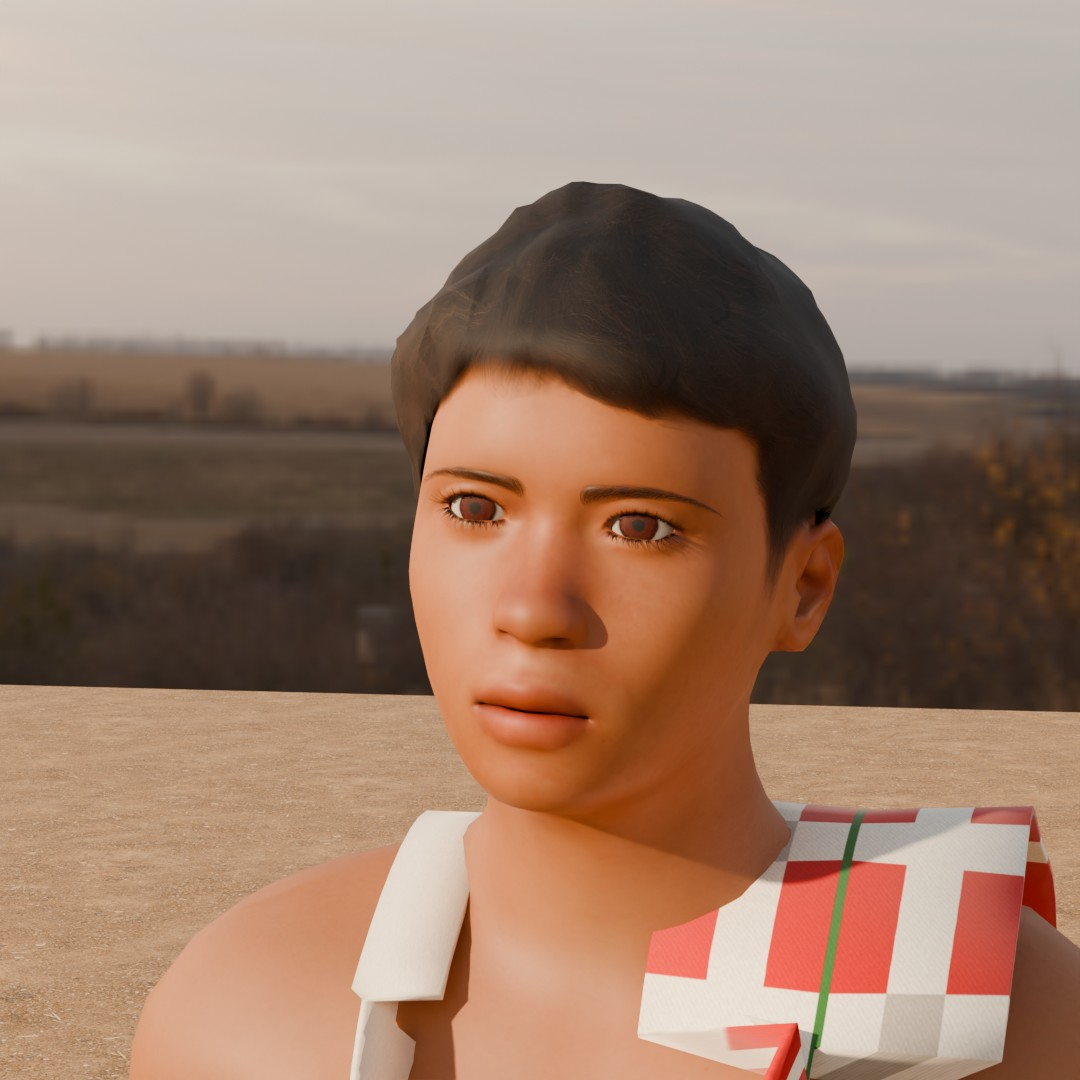
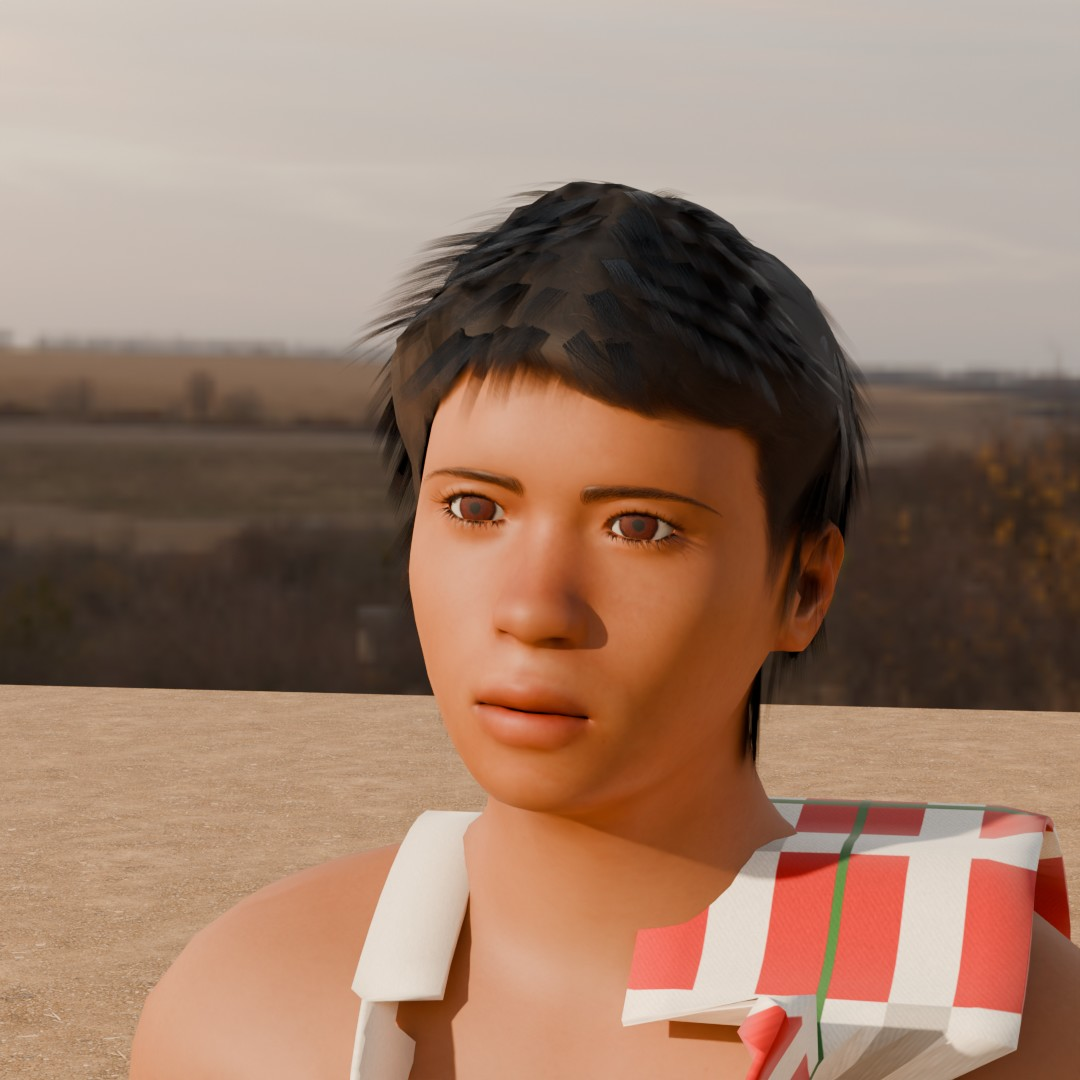
art: Bablu mockup v2 with cloth simulation, hair cards and pore detail
Still free resources only:
- Lungi simulated with Blender's cloth solver on the posed body
  (pinned waist, spare fabric settles into real folds; hem follows the
  settled edge; welded seam with continuous texture).
- 1,600 hair cards grown from the MakeHuman cap with a generated strand
  texture; fringe swept aside above the eyes.
- Tiling skin-pore normal map (exported to the GLB) and stronger
  subsurface in renders.
- Gamcha wider and more detailed, kept shaped (simulation crumpled it).
- v1 renders kept in docs/mockups/v1 for comparison; README updated
  with the assessment against Real Cricket 24.

diff --git a/art-source/create_mockup_bablu.py b/art-source/create_mockup_bablu.py
@@ -80,6 +80,7 @@ def tail_w(b): return rig.matrix_world @ b.tail_local
 dg = bpy.context.evaluated_depsgraph_get()
 body_eval = body.evaluated_get(dg); me_eval = body_eval.to_mesh()
 V = np.array([body_eval.matrix_world @ v.co for v in me_eval.vertices])
+Nrm = np.array([(body_eval.matrix_world.to_3x3() @ v.normal).normalized() for v in me_eval.vertices])
 body_eval.to_mesh_clear()
 gidx = {g.name.lower(): g.index for g in body.vertex_groups}
 # MakeHuman keeps hidden helper geometry (skirt/tights cages, hair helper, joint cubes) in the
@@ -203,9 +204,12 @@ def mesh_object(name, verts, faces, uvs=None, mat=None):
     return ob
 
 # ---------- lungi: a tube that wraps both legs (support function of the body section) ----------
-NA, NR = 72, 30
+# Built for cloth simulation (run after posing): the top rows are pinned tight at the waist, the rest
+# starts wider than the legs so gravity and body collision form real folds. The seam is welded.
+NA, NR = 96, 34
 z_top, z_bot = z_navel - .05, z_knee + .035
 legs = (w_arm < .05)
+rng_l = np.random.default_rng(7)
 rings, uvs = [], []
 prev = None
 for j in range(NR + 1):
@@ -216,17 +220,21 @@ for j in range(NR + 1):
     ring = (np.roll(ring, 1) + 2 * ring + np.roll(ring, -1)) / 4            # smooth around
     if prev is not None: ring = np.maximum(ring, prev * .97)               # no pinching between the legs
     prev = ring
-    for i in range(NA + 1):                                                # last column repeats the first: clean UV seam
+    for i in range(NA):
         a = 2 * math.pi * i / NA
-        folds = (.003 + .007 * t) * math.sin(a * 7 + 1.7 * math.sin(a * 3)) + .0015 * math.sin(a * 17)
-        r = ring[i % NA] + .032 + .012 * t * t + folds
+        slack = .009 if j <= 1 else .02 + .045 * t ** .7 + rng_l.normal(0, .002)   # spare fabric lower down
+        r = ring[i] + slack
         rings.append((cx + r * math.cos(a), cy + r * math.sin(a), z))
         uvs.append((i / NA * 3, (z_top - z) * 3))
-C = NA + 1
-faces = [(j * C + i, j * C + i + 1, (j + 1) * C + i + 1, (j + 1) * C + i) for j in range(NR) for i in range(NA)]
+faces = [(j * NA + i, j * NA + (i + 1) % NA, (j + 1) * NA + (i + 1) % NA, (j + 1) * NA + i) for j in range(NR) for i in range(NA)]
 lungi = mesh_object('Lungi', rings, faces, uvs, cloth_material('Lungi', lungi_img))
-sol = lungi.modifiers.new('thick', 'SOLIDIFY'); sol.thickness = .004
-bpy.context.view_layer.objects.active = lungi; bpy.ops.object.modifier_apply(modifier='thick')
+uvl = lungi.data.uv_layers.active                                         # wrap faces: continue the texture past u=3
+for poly in lungi.data.polygons:
+    ids = [vi % NA for vi in poly.vertices]
+    if 0 in ids and NA - 1 in ids:
+        for li, vi in zip(poly.loop_indices, poly.vertices):
+            if vi % NA == 0: uvl.data[li].uv = (3.0, uvl.data[li].uv[1])
+pin = lungi.vertex_groups.new(name='pin'); pin.add(list(range(2 * NA)), 1.0, 'REPLACE')
 
 def roll(name, ring_pts, radius, mat, uv_scale=6):
     """A rolled fabric tube following a closed ring of points (waist knot roll, folded hem)."""
@@ -243,15 +251,16 @@ def roll(name, ring_pts, radius, mat, uv_scale=6):
     return mesh_object(name, verts, f, uv, mat)
 
 top_ring = [rings[i] for i in range(NA)]
-bottom_ring = [rings[NR * C + i] for i in range(NA)]
 waist = roll('Lungi_waist', top_ring, .011, lungi.data.materials[0])
-hem = roll('Lungi_hem', bottom_ring, .009, lungi.data.materials[0])
 # the tuck knot at the front of the waist
 knot_c = Vector(top_ring[NA * 3 // 4]) + Vector((0, -.012, -.01))
 bpy.ops.mesh.primitive_uv_sphere_add(segments=16, ring_count=10, radius=.02, location=knot_c)
 knot = bpy.context.active_object; knot.name = 'Lungi_knot'; knot.scale = (1.6, .5, .7)
 knot.data.materials.append(lungi.data.materials[0])
-for o in (lungi, waist, hem, knot): skin_to_body(o)
+for o in (lungi, waist, knot): skin_to_body(o)
+lungi.vertex_groups.remove(lungi.vertex_groups['pin'])                  # weight normalising touched it; re-add
+lungi.vertex_groups.new(name='pin').add(list(range(2 * NA)), 1.0, 'REPLACE')
+# the folded hem is added after the simulation, along the settled bottom edge
 
 # ---------- vest: offset copy of the torso surface, scooped neck and arm holes ----------
 bpy.ops.object.select_all(action='DESELECT')
@@ -308,31 +317,36 @@ def catmull(pts, n):
             t = k / n; p0, p1, p2, p3 = P[i - 1], P[i], P[i + 1], P[i + 2]
             out.append(.5 * ((2 * p1) + (-p0 + p2) * t + (2 * p0 - 5 * p1 + 4 * p2 - p3) * t * t + (-p0 + 3 * p1 - 3 * p2 + p3) * t ** 3))
     out.append(pts[-1]); return out
-def strip(name, path, width, top_z, mat, ripple=.004, uv_len=5):
-    """A cloth strip of the given width following a path over the shoulder."""
-    spine = catmull(path, 10); verts, uv = [], []
+def strip(name, path, width, top_z, mat, ripple=.004, uv_len=5, across=3, steps=10, solid=True):
+    """A cloth strip of the given width following a path over the shoulder.
+    solid=False leaves a single layer for cloth simulation (thickness is added afterwards)."""
+    spine = catmull(path, steps); verts, uv = [], []
     for i, p in enumerate(spine):
         tng = (spine[min(i + 1, len(spine) - 1)] - spine[max(i - 1, 0)]).normalized()
         outward = Vector((p.x - cx, p.y - cy, 0)); outward = outward.normalized() if outward.length > 1e-4 else Vector((0, 0, 1))
         if abs(p.z - top_z) < .05: outward = Vector((0, 0, 1))
         wdir = tng.cross(outward).normalized()
-        for s in (-1, 0, 1):
-            verts.append(p + wdir * (width / 2) * s + outward * ripple * math.sin(i * .9) * (s != 0))
-            uv.append((i / len(spine) * uv_len, (s + 1) / 2))
-    f = [(i * 3 + k, i * 3 + k + 1, (i + 1) * 3 + k + 1, (i + 1) * 3 + k) for i in range(len(spine) - 1) for k in range(2)]
+        for k in range(across):
+            s = 2 * k / (across - 1) - 1
+            verts.append(p + wdir * (width / 2) * s + outward * ripple * math.sin(i * .9) * (k not in (0, across - 1)))
+            uv.append((i / len(spine) * uv_len, k / (across - 1)))
+    f = [(i * across + k, i * across + k + 1, (i + 1) * across + k + 1, (i + 1) * across + k)
+         for i in range(len(spine) - 1) for k in range(across - 1)]
     ob = mesh_object(name, verts, f, uv, mat)
-    sol = ob.modifiers.new('thick', 'SOLIDIFY'); sol.thickness = .003
-    bpy.context.view_layer.objects.active = ob; bpy.ops.object.modifier_apply(modifier='thick')
+    if solid:
+        sol = ob.modifiers.new('thick', 'SOLIDIFY'); sol.thickness = .003
+        bpy.context.view_layer.objects.active = ob; bpy.ops.object.modifier_apply(modifier='thick')
     skin_to_body(ob)
     return ob
 
 # gamcha over the left shoulder, hanging to the waist in front and behind
 top = shoulder_top(.62); xs = top[0]
 print('GAMCHA_TOP', top, flush=True)
-gamcha = strip('Gamcha', [surface(xs - side * .05, top[2] - .42, True), surface(xs - side * .02, top[2] - .22, True),
-                          surface(xs, top[2] - .06, True), Vector((xs, top[1], top[2] + .022)),
-                          surface(xs, top[2] - .06, False), surface(xs - side * .03, top[2] - .25, False),
-                          surface(xs - side * .06, top[2] - .45, False)], .13, top[2], cloth_material('Gamcha', gamcha_img, .9, .5))
+gamcha = strip('Gamcha', [surface(xs - side * .05, top[2] - .42, True, .032), surface(xs - side * .02, top[2] - .22, True, .03),
+                          surface(xs, top[2] - .06, True, .024), Vector((xs, top[1], top[2] + .022)),
+                          surface(xs, top[2] - .06, False, .024), surface(xs - side * .03, top[2] - .25, False, .03),
+                          surface(xs - side * .06, top[2] - .45, False, .032)], .14, top[2], cloth_material('Gamcha', gamcha_img, .9, .5),
+                ripple=.004, across=9, steps=14, solid=True)    # shaped, not simulated: a thick towel keeps its drape
 
 # vest straps on both shoulders, from the front of the vest to the back
 for s_name, frac in (('Vest_strap_l', .5), ('Vest_strap_r', -.5)):
@@ -391,6 +405,122 @@ try:
     pb = rig.pose.bones[bone('head').name]; pb.rotation_mode = 'XYZ'; pb.rotation_euler.rotate_axis('Z', math.radians(-6))
 except KeyError: pass
 bpy.ops.object.mode_set(mode='OBJECT')
+
+# ---------- cloth simulation: lungi and gamcha settle on the posed body (Blender's built-in solver) ----------
+scene = bpy.context.scene
+for o, th in ((body, .006), (vest, .003)):
+    col = o.modifiers.new('collision', 'COLLISION')
+    o.collision.thickness_outer = th; o.collision.cloth_friction = 8
+def simulate(obj, frames, mass, bend, shrink=0.):
+    mod = obj.modifiers.new('cloth', 'CLOTH'); s = mod.settings
+    s.quality = 8; s.mass = mass; s.air_damping = 2
+    s.tension_stiffness = s.compression_stiffness = 18; s.shear_stiffness = 6; s.bending_stiffness = bend
+    s.vertex_group_mass = 'pin'; s.pin_stiffness = 1; s.shrink_min = shrink
+    cs = mod.collision_settings; cs.distance_min = .004; cs.collision_quality = 4; cs.use_self_collision = False
+    mod.point_cache.frame_start = 1; mod.point_cache.frame_end = frames
+    scene.frame_start, scene.frame_end = 1, frames
+    for f in range(1, frames + 1): scene.frame_set(f)
+    bpy.context.view_layer.objects.active = obj
+    bpy.ops.object.modifier_apply(modifier='cloth')
+    scene.frame_set(1)
+    print('SIMULATED', obj.name, frames, 'frames', flush=True)
+simulate(lungi, 50, .25, .6)
+for o in (body, vest): o.modifiers.remove(o.modifiers['collision'])
+
+# folded hem along the settled bottom edge, then cloth thickness
+lw = lungi.matrix_world
+hem_ring = [lw @ lungi.data.vertices[NR * NA + i].co for i in range(NA)]
+hem = roll('Lungi_hem', hem_ring, .008, lungi.data.materials[0]); skin_to_body(hem)
+for o, th in ((lungi, .003),):
+    sol = o.modifiers.new('thick', 'SOLIDIFY'); sol.thickness = th; sol.offset = 1
+    sub = o.modifiers.new('smooth', 'SUBSURF'); sub.levels = 0; sub.render_levels = 1
+
+# ---------- hair cards: short strands grown from the scalp, combed forward and down ----------
+rng_h = np.random.default_rng(11)
+def strand_texture(n=512, count=260):
+    img = np.zeros((n, n, 4))
+    for _ in range(count):
+        x = rng_h.uniform(0, n); w = rng_h.uniform(.6, 1.8); a = rng_h.uniform(.55, 1)
+        tone = np.array([.045, .035, .03]) * rng_h.uniform(.7, 1.5) + rng_h.uniform(0, .02)
+        xs_ = np.arange(n)
+        prof = np.clip(1 - np.abs(xs_ - x) / w, 0, 1) * a
+        v_ = np.linspace(0, 1, n)
+        taper = np.clip(1 - v_ ** 3 * rng_h.uniform(.8, 1.2), 0, 1) * np.clip(v_ / .12, 0, 1)   # soft root, thin tips
+        alpha = taper[:, None] * prof[None, :]
+        img[..., :3] = img[..., :3] * (1 - alpha[..., None]) + tone * alpha[..., None]
+        img[..., 3] = np.maximum(img[..., 3], alpha)
+    im = bpy.data.images.new('hair_strands', n, n, alpha=True)
+    im.pixels.foreach_set(img.astype(np.float32).ravel()); im.pack()
+    return im
+hair_img = strand_texture()
+hm = bpy.data.materials.new('HairCards'); hm.use_nodes = True
+nt = hm.node_tree; hb = nt.nodes['Principled BSDF']
+ht = nt.nodes.new('ShaderNodeTexImage'); ht.image = hair_img
+nt.links.new(ht.outputs['Color'], hb.inputs['Base Color']); nt.links.new(ht.outputs['Alpha'], hb.inputs['Alpha'])
+hb.inputs['Roughness'].default_value = .45
+if 'Coat Weight' in hb.inputs: hb.inputs['Coat Weight'].default_value = .2
+try: hm.surface_render_method = 'DITHERED'
+except AttributeError: hm.blend_method = 'HASHED'
+# Roots sit on the MakeHuman hair cap (read in the rest pose, since the cards are skinned to the head bone).
+rig.data.pose_position = 'REST'; bpy.context.view_layer.update()
+dg = bpy.context.evaluated_depsgraph_get(); cap_e = hair.evaluated_get(dg); cap_m = cap_e.to_mesh()
+CP = np.array([cap_e.matrix_world @ v.co for v in cap_m.vertices])
+CN = np.array([(cap_e.matrix_world.to_3x3() @ v.normal).normalized() for v in cap_m.vertices])
+cap_e.to_mesh_clear(); rig.data.pose_position = 'POSE'; bpy.context.view_layer.update()
+eyes = next(o for o in bpy.data.objects if 'low-poly' in o.name)
+eye_top = max((eyes.matrix_world @ v.co).z for v in eyes.data.vertices)
+head_c = Vector(CP.mean(axis=0))
+outer = CN[:, 2] > -.35                                                                   # skip the cap's inner/underside
+outer &= ~((CP[:, 1] < head_c.y - .02) & (CP[:, 2] < eye_top + .045))                     # keep the forehead and eyes clear
+CP, CN = CP[outer], CN[outer]
+crown = Vector(CP[np.argmax(CP[:, 2] + .6 * CP[:, 1])])                                  # top-back whorl
+verts, faces_h, uv_h = [], [], []
+for c in range(1600):
+    vi = rng_h.integers(len(CP))
+    p = Vector(CP[vi]); n = Vector(CN[vi])
+    d = p - crown; d -= n * d.dot(n)
+    d = d.normalized() if d.length > 1e-4 else n.orthogonal().normalized()
+    front = p.y < head_c.y - .03
+    if front: d = (d + Vector((math.copysign(.6, p.x - head_c.x), 0, .15))).normalized()   # fringe swept to the side
+    else: d = (d + Vector((0, 0, -.35))).normalized()                                    # hair falls a little
+    L = rng_h.uniform(.02, .032) if front else rng_h.uniform(.02, .038)
+    side = d.cross(n).normalized(); W = .009
+    u0 = rng_h.uniform(0, .8); base = len(verts)
+    for k in range(4):
+        t = k / 3
+        q = p + n * (-.001 + .004 * t) + d * L * t + Vector((0, 0, -.006 * t * t))
+        verts += [q - side * W / 2, q + side * W / 2]
+        uv_h += [(u0, t), (u0 + .2, t)]
+    for k in range(3):
+        faces_h.append((base + 2 * k, base + 2 * k + 1, base + 2 * k + 3, base + 2 * k + 2))
+hairc = mesh_object('HairCards', verts, faces_h, uv_h, hm)
+hairc.vertex_groups.new(name='head').add(list(range(len(verts))), 1.0, 'REPLACE')
+hairc.modifiers.new('rig', 'ARMATURE').object = rig; hairc.parent = rig
+print('HAIR_CARDS', len(faces_h), flush=True)
+
+# ---------- skin micro-detail: tiling pore normal map (also exported to the GLB) ----------
+def pore_normal(n=512, seed=5):
+    r = np.random.default_rng(seed)
+    f = np.fft.fft2(r.normal(size=(n, n)))
+    k = np.fft.fftfreq(n)[:, None] ** 2 + np.fft.fftfreq(n)[None, :] ** 2
+    h = np.real(np.fft.ifft2(f * np.exp(-k * 2200) * (k > 1e-6)))                       # small soft bumps (tileable)
+    h = (h - h.mean()) / h.std()
+    dx = (np.roll(h, -1, 1) - np.roll(h, 1, 1)) * .5; dy = (np.roll(h, -1, 0) - np.roll(h, 1, 0)) * .5
+    nrm = np.dstack([-dx * .35, -dy * .35, np.ones_like(h)]); nrm /= np.linalg.norm(nrm, axis=2, keepdims=True)
+    return (nrm * .5 + .5)
+pore_img = make_image('skin_pores', pore_normal()); pore_img.colorspace_settings.name = 'Non-Color'
+for mat in body.data.materials:
+    if not mat.use_nodes: continue
+    nt = mat.node_tree; bsdf = next((n for n in nt.nodes if n.type == 'BSDF_PRINCIPLED'), None)
+    if not bsdf or bsdf.inputs['Normal'].is_linked: continue
+    tex = nt.nodes.new('ShaderNodeTexImage'); tex.image = pore_img
+    mp = nt.nodes.new('ShaderNodeMapping'); mp.inputs['Scale'].default_value = (55, 55, 1)
+    uvn = nt.nodes.new('ShaderNodeUVMap')
+    nm = nt.nodes.new('ShaderNodeNormalMap'); nm.inputs['Strength'].default_value = .35
+    nt.links.new(uvn.outputs['UV'], mp.inputs['Vector']); nt.links.new(mp.outputs['Vector'], tex.inputs['Vector'])
+    nt.links.new(tex.outputs['Color'], nm.inputs['Color']); nt.links.new(nm.outputs['Normal'], bsdf.inputs['Normal'])
+    if 'Subsurface Weight' in bsdf.inputs: bsdf.inputs['Subsurface Weight'].default_value = .2
+    if 'Specular IOR Level' in bsdf.inputs: bsdf.inputs['Specular IOR Level'].default_value = .45
 
 # ---------- stage: packed earth ground, evening sky, warm low sun ----------
 scene = bpy.context.scene

diff --git a/docs/mockups/README.md b/docs/mockups/README.md
@@ -1,24 +1,38 @@
 # Character mockups
 
-## Bablu (বাবলু): free resources only, 29 October 2026
+## Bablu (বাবলু): free resources only
 
-![Bablu, three-quarter view](bablu-three-quarter.jpg)
+**Purpose:** see how close free tools get to the Real Cricket 24 benchmark (D17) before deciding on paid tools or an artist (D16).
+
+### Version 2, 29 October 2026
+
+![Bablu v2, three-quarter view](bablu-three-quarter.jpg)
 
 | Front | Face |
 |---|---|
 | ![Front](bablu-front.jpg) | ![Face](bablu-face.jpg) |
 
-**Purpose:** see how close free tools get to the Real Cricket 24 benchmark (D17) before deciding on paid tools or an artist (D16).
+What changed from version 1 (all still free):
 
-**How it's made:** `art-source/create_mockup_bablu.py`, run headless in Blender 4.5 LTS.
+- **Lungi:** simulated with Blender's cloth solver. The waist is pinned, spare fabric settles on the posed body and forms real folds, and the folded hem follows the settled edge.
+- **Hair:** 1,600 hair cards grown from the MakeHuman hair cap, with a generated strand texture (soft roots, thin tips). The fringe is swept aside and kept above the eyes.
+- **Skin:** a tiling pore normal map (also exported to the 3D model) and stronger subsurface scattering in the renders.
+- **Gamcha:** wider and with more detail across, still shaped rather than simulated. A simulated version crumpled, and a thick towel keeps its drape anyway.
 
-- Body, skin, eyes, brows, lashes and hair: MakeHuman CC0 assets through the MPFB2 v2.0.18 add-on. Age about 15, broad build, skin tinted toward #9C6440, hair darkened to black.
-- Clothing generated by the script from the body's own shape and skinned to the same game rig:
-  - Lungi: a tube following the convex outline of both legs, with a waist roll, tuck knot and folded hem, and a procedural blue check texture.
-  - Vest (genji): an offset copy of the torso surface plus shoulder straps.
-  - Gamcha: a red-and-white checked strip over the left shoulder.
-- Light: Poly Haven "Evening Field" HDRI (CC0) plus a warm low sun. Ground uses the project's village-earth texture.
-- Renders: Cycles, 128 samples, AgX.
+### Version 1 (first attempt)
+
+| Three-quarter | Face |
+|---|---|
+| ![v1](v1/bablu-three-quarter.jpg) | ![v1 face](v1/bablu-face.jpg) |
+
+### How it's made
+
+`art-source/create_mockup_bablu.py`, run headless in Blender 4.5 LTS.
+
+- Body, skin, eyes, brows, lashes and hair cap: MakeHuman CC0 assets through the MPFB2 v2.0.18 add-on. Age about 15, broad build, skin tinted toward #9C6440, black hair.
+- Clothing generated from the body's evaluated shape and skinned to the same game rig: a lungi (blue check, waist roll, tuck knot, hem), a vest with shoulder straps, and a red-and-white checked gamcha.
+- Light: Poly Haven "Evening Field" HDRI (CC0) plus a warm low sun; ground uses the project's village-earth texture.
+- Renders: Cycles, 128 samples, AgX. The full build takes about 2 minutes plus rendering on a desktop CPU.
 
 To rebuild: download the assets with `fetch_mockup_assets.py` (needs MPFB2 v2.0.18 in `art-source/vendor/mpfb/` and the HDRI in `art-source/vendor/hdri/`), then run:
 
@@ -26,17 +40,18 @@ To rebuild: download the assets with `fetch_mockup_assets.py` (needs MPFB2 v2.0.
 blender -b --factory-startup -P art-source/create_mockup_bablu.py -- --samples 128
 ```
 
-The `.blend` file and the web 3D model (`.glb`, about 10 MB) are written to `art-source/vendor/` and aren't committed until Git LFS is set up (backlog V00).
+The `.blend` file and the web 3D model (`.glb`) are written to `art-source/vendor/` and aren't committed until Git LFS is set up (backlog V00).
 
-### Assessment
+### Assessment against the benchmark
 
-| Area | Result |
-|---|---|
-| Proportions, build, skin tone | Good: believable 15-year-old |
-| Rig | Good: one skeleton for body and clothes, ready for Unity and mocap |
-| Light | Good, at no cost |
-| Face | Smooth and "plastic": no pores, no fine detail. The main gap to the benchmark |
-| Clothing | Stiff shapes. Real folds need cloth simulation (Blender's is free) or hand modeling |
-| Hair | Helmet-like cap. Needs hair cards |
+| Area | Version 1 | Version 2 |
+|---|---|---|
+| Proportions, build, skin tone | Good | Good |
+| Rig (Unity, mocap) | Good | Good |
+| Light | Good | Good |
+| Lungi | Stiff tube | Real folds (simulated) |
+| Hair | Helmet-like cap | Strand cards; fine at game distance |
+| Face | Smooth, generic | Slightly better skin shading; still generic. **Main remaining gap** |
+| Vest, gamcha | Stiff | Still shaped, no wrinkles |
 
-The renders are offline quality. The in-game real-time look will be somewhat flatter.
+The biggest free improvement left is a **face photo-texture**: project a real reference photo onto the face (with the person's consent) and sculpt the face shape to match. After that, the free route hits its limit on facial detail. The renders are offline quality; the in-game real-time look is flatter.
